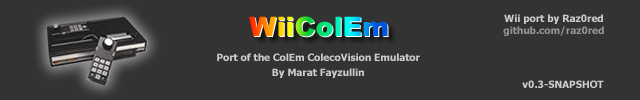
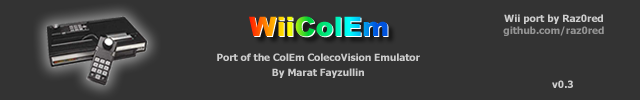
Update prior to 0.3 release

Changed region(s): [[0.8125, 0.78, 0.9688, 0.9]]

diff --git a/README.md b/README.md
@@ -402,7 +402,7 @@ of the following locations:
 
 ## Change log
 
-### SNAPSHOT (0.3)
+### 12/25/19 (0.3)
   - Updated to latest version of ColEm (4.8)
     - Super Game Module (SGM) emulation
     - 24c08 and 24c256 EEPROM emulation
